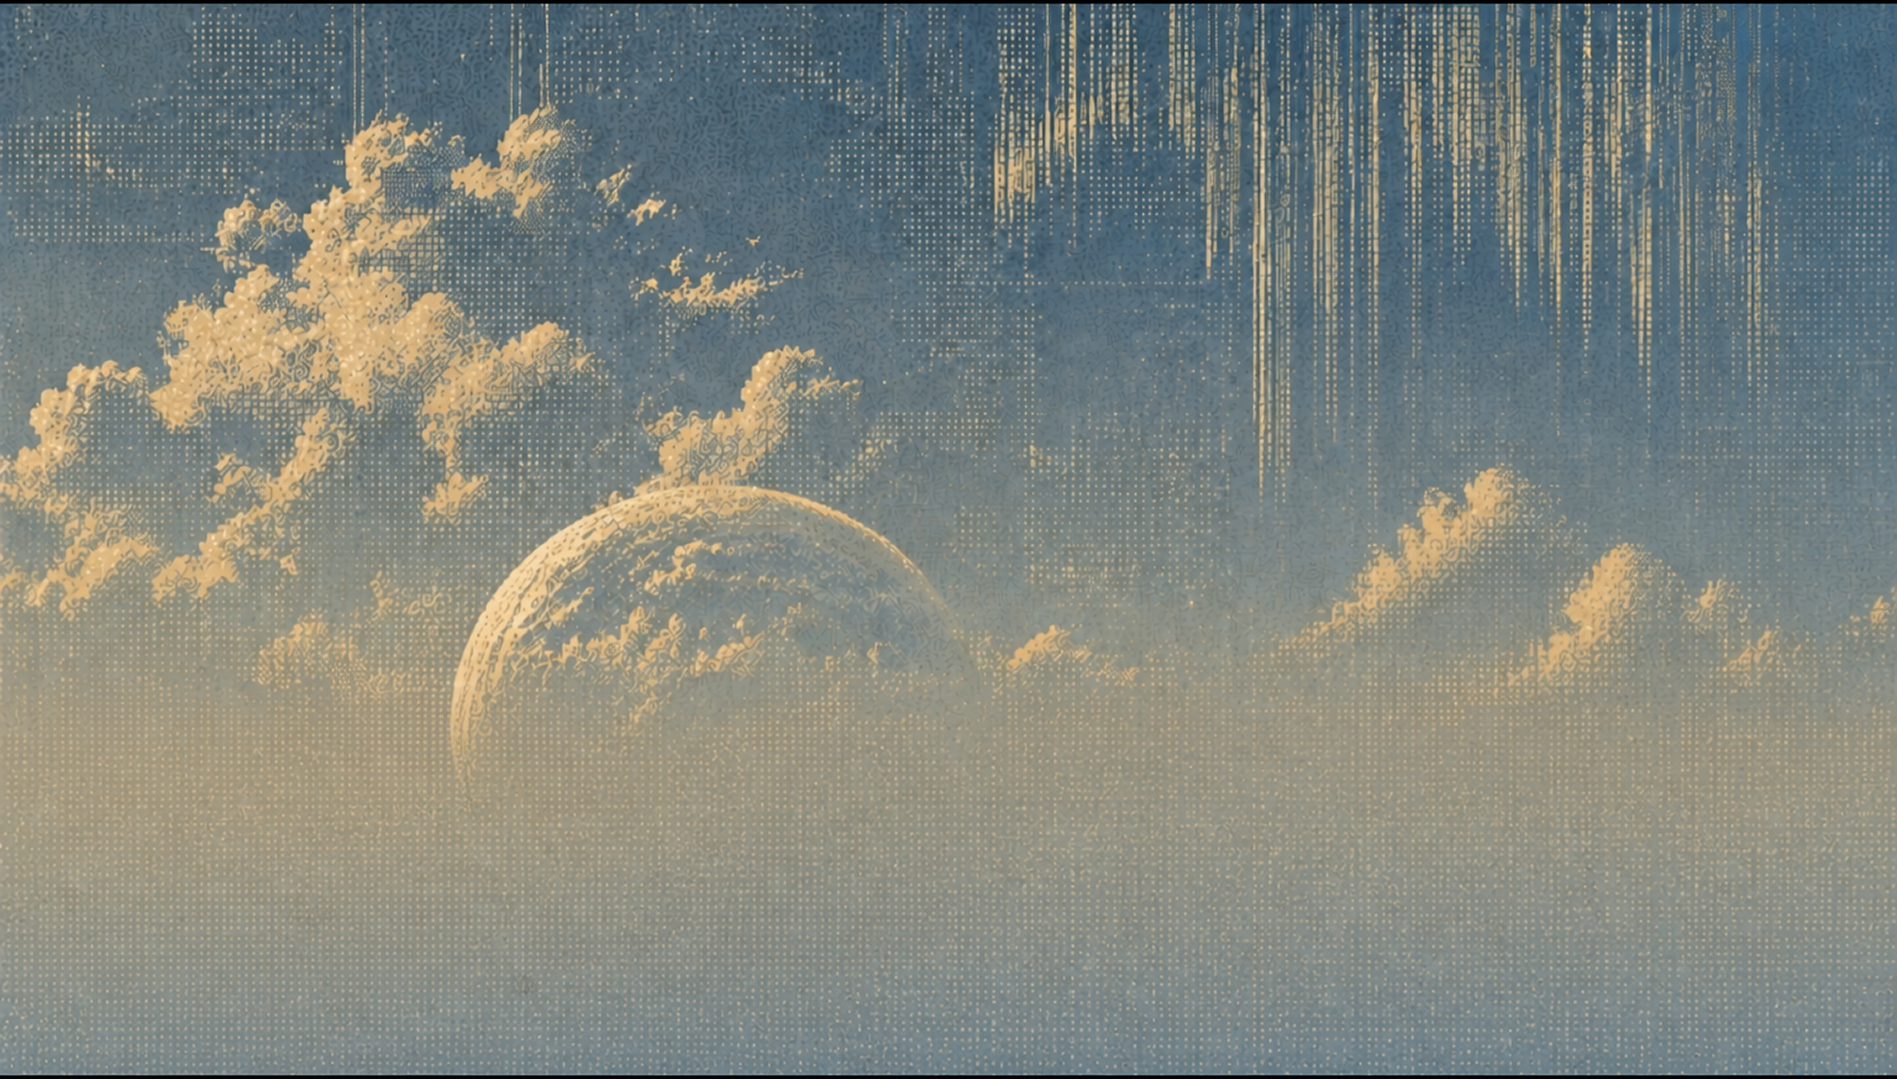
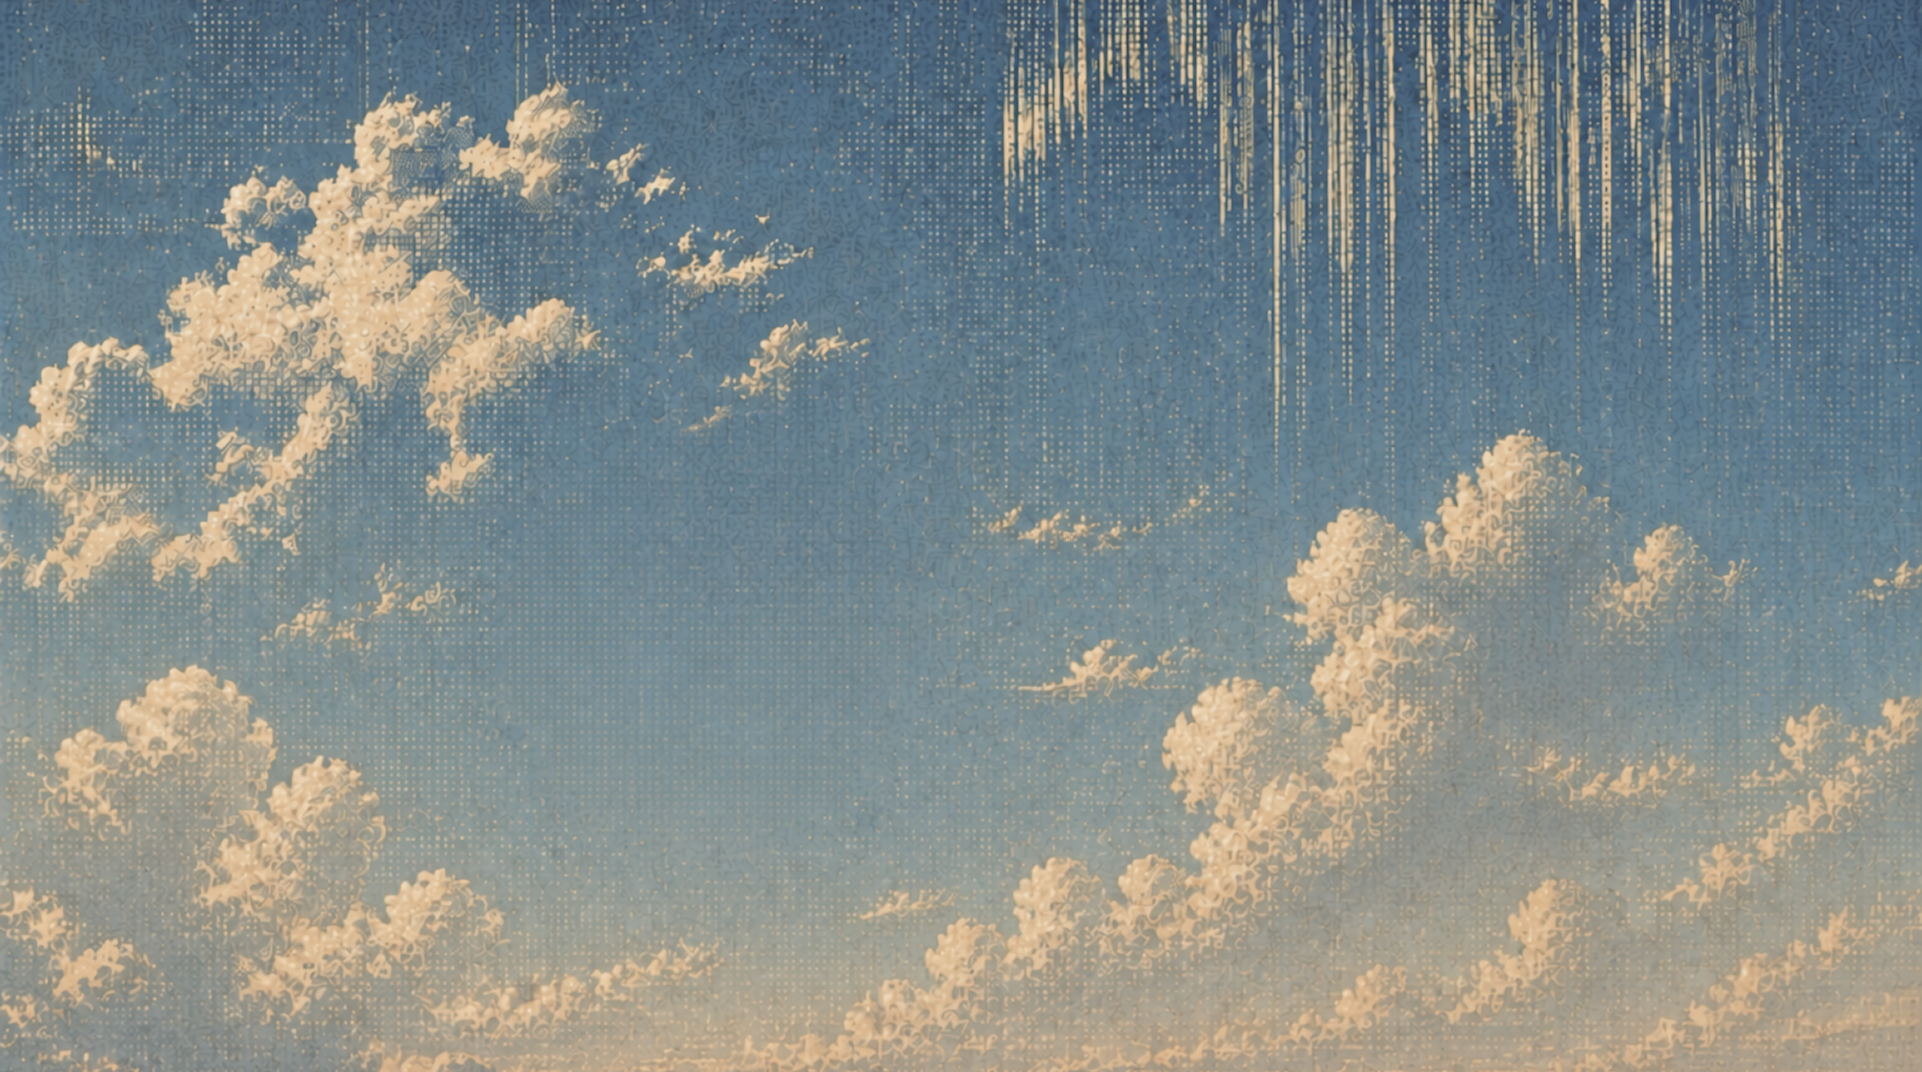
hero: rebuild S1 plates, split the moon into its own drifting layer
The re-exported 1-A came back opaque with the moon cut out into a new 1-A-1
plate, so the moon becomes a layer of its own between the sky and the city and
drifts under the pointer.

Assets
- 1-A is cover-cropped back to the shared 1897x1079 S1 canvas. Its re-export was
  1922x1072, and two aspect ratios under one object-fit: cover means the sky and
  the moon crop differently and the moon slides off the spot it was drawn on.
  It also alpha-flattens now: the plate is fully opaque.
- The moon is supersampled 1.5x for the same reason the arch is. The disc is
  430px of the plate, ~706 device px on a 1440 retina stage; 1.5x brings that
  upscale to ~1.09x. It keeps the full canvas rather than being cropped to its
  bbox so it inherits the sky's cover geometry with no CSS placement math — the
  transparent 78% costs ~16KB, and next/image ships it as a 46KB AVIF.
- The S1 poster composite picks the moon up for the reduced-motion path.

Motion
- The moon takes the sky's scale tween verbatim, because DitherDissolve now
  paints it into the S1 bitmap: sky and moon are eaten by the same Bayer grain
  instead of the moon blinking out when the canvas takes over at p=0.42.
- Pointer parallax runs at amp 0.9 on a 1.2s follow (others use 0.7s), so it
  lands about half a beat after the rest of the scene — a heavy distant body
  rather than one more parallax plane. IDLE_PARALLAX grows an optional `lag`.

Also fixes a live bug this would have made obvious: globals.css shifts the S1
[…]

diff --git a/components/hero/DitherDissolve.tsx b/components/hero/DitherDissolve.tsx
@@ -20,11 +20,17 @@ async function loadBitmap(src: string): Promise<ImageBitmap> {
   return createImageBitmap(blob);
 }
 
-function drawCover(ctx: CanvasRenderingContext2D, bmp: ImageBitmap, cw: number, ch: number, scale: number) {
+/** `ox` is the horizontal half of CSS `object-position`, as a fraction. It has to be passed
+ *  rather than assumed centred: under 767px globals.css shifts the S1 plates to `35% center`, and
+ *  a canvas that keeps drawing at 50% slides the sky ~165px sideways the frame it takes over. That
+ *  was survivable on a cloud field; with the moon on the plate it is a body teleporting. */
+const S1_MOBILE = "(max-width: 767px)"; // must track the S1 recompose breakpoint in globals.css
+
+function drawCover(ctx: CanvasRenderingContext2D, bmp: ImageBitmap, cw: number, ch: number, scale: number, ox = 0.5) {
   const s = Math.max(cw / bmp.width, ch / bmp.height) * scale;
   const dw = bmp.width * s;
   const dh = bmp.height * s;
-  ctx.drawImage(bmp, (cw - dw) / 2, (ch - dh) / 2, dw, dh);
+  ctx.drawImage(bmp, (cw - dw) * ox, (ch - dh) / 2, dw, dh);
 }
 
 /**
@@ -44,6 +50,7 @@ export function DitherDissolve({ motionRef }: { motionRef: RefObject<HeroMotion>
     if (!canvas || !ctx || !motion) return;
 
     let s1: ImageBitmap | undefined;
+    let s1Moon: ImageBitmap | undefined;
     let s2: ImageBitmap | undefined;
     let loading = false;
     let raf = 0;
@@ -54,6 +61,14 @@ export function DitherDissolve({ motionRef }: { motionRef: RefObject<HeroMotion>
 
     const mask = document.createElement("canvas");
     const temp = document.createElement("canvas");
+
+    const narrow = window.matchMedia(S1_MOBILE);
+    let originX = narrow.matches ? 0.35 : 0.5;
+    const readOrigin = () => {
+      originX = narrow.matches ? 0.35 : 0.5;
+      lastT = -1; // force a redraw at the new framing
+    };
+    narrow.addEventListener("change", readOrigin);
 
     const observer = new ResizeObserver((entries) => {
       const rect = entries[0].contentRect;
@@ -75,6 +90,12 @@ export function DitherDissolve({ motionRef }: { motionRef: RefObject<HeroMotion>
         .catch(() => {
           motion.quality.dither = false;
         });
+      // the moon loads on its own so a miss costs the moon, not the whole dissolve
+      void loadBitmap(HERO_ASSETS.s1Moon)
+        .then((m) => {
+          s1Moon = m;
+        })
+        .catch(() => {});
     };
 
     const step = () => {
@@ -135,13 +156,15 @@ export function DitherDissolve({ motionRef }: { motionRef: RefObject<HeroMotion>
       }
       const tempCtx = temp.getContext("2d")!;
       tempCtx.clearRect(0, 0, cw, ch);
-      drawCover(tempCtx, s2!, cw, ch, s2Scale);
+      drawCover(tempCtx, s2!, cw, ch, s2Scale, 0.5); // the S2 plates have no object-position override
       tempCtx.globalCompositeOperation = "destination-in";
       tempCtx.imageSmoothingEnabled = false;
       tempCtx.drawImage(mask, 0, 0, cellsX * cell, cellsY * cell);
       tempCtx.globalCompositeOperation = "source-over";
 
-      drawCover(ctx, s1!, cw, ch, 1 + (DISSOLVE.s1SkyScale - 1) * motion.factor);
+      const s1Scale = 1 + (DISSOLVE.s1SkyScale - 1) * motion.factor;
+      drawCover(ctx, s1!, cw, ch, s1Scale, originX);
+      if (s1Moon) drawCover(ctx, s1Moon, cw, ch, s1Scale, originX); // same plate canvas, so same cover math
       ctx.drawImage(temp, 0, 0);
     };
     raf = requestAnimationFrame(step);
@@ -149,7 +172,9 @@ export function DitherDissolve({ motionRef }: { motionRef: RefObject<HeroMotion>
     return () => {
       cancelAnimationFrame(raf);
       observer.disconnect();
+      narrow.removeEventListener("change", readOrigin);
       s1?.close();
+      s1Moon?.close();
       s2?.close();
     };
   }, [motionRef]);

diff --git a/components/hero/heroSequence.ts b/components/hero/heroSequence.ts
@@ -11,6 +11,7 @@ export const MOBILE_QUERY = "(max-width: 720px)";
 
 export const HERO_ASSETS = {
   s1Sky: "/hero/hero-s1-a-sky.webp",
+  s1Moon: "/hero/hero-s1-a1-moon.webp",
   s1City: "/hero/hero-s1-b-city.webp",
   s1Temple: "/hero/hero-s1-c-temple.webp",
   s1Trees: "/hero/hero-s1-d-trees.webp",
@@ -38,6 +39,7 @@ const mobile = (vw: number) => `(max-width: 767px) ${vw}vw, 100vw`;
 
 export const HERO_SIZES = {
   s1Sky: mobile(390),
+  s1Moon: mobile(390), // the moon plate shares the sky's canvas and cover geometry, so it paints identically
   s1City: mobile(236),
   s1Temple: mobile(202),
   s1Trees: mobile(179),
@@ -54,7 +56,7 @@ export const DISSOLVE = {
   band: [0.42, 0.585],
   sweep: [0.45, 0.58],
   cellPx: 7, // aligned to device pixels at draw time (caution §8)
-  s1SkyScale: 1.18, // 1-A held at the end of its push
+  s1SkyScale: 1.18, // 1-A held at the end of its push — the moon plate is drawn at the same scale
   s2SkyScale: [1.12, 1.06], // must mirror the DOM tween on [data-hs="s2-a"]
   s2SkySettle: [0.45, 0.6],
 } as const;
@@ -102,8 +104,14 @@ export const heroScript: HeroStep[] = [
   { target: '[data-hs="s1-b"]', at: [0.15, 0.4], from: { scale: 1, yPercent: 0 }, to: { scale: 1.12, yPercent: 10 }, ease: "power2.in" },
   { target: '[data-hs="s1-b"]', at: [0.38, 0.45], from: { autoAlpha: 1 }, to: { autoAlpha: 0 }, ease: "none" },
   { target: '[data-hs="s1-a"]', at: [0.15, 0.4], from: { scale: 1.08 }, to: { scale: 1.18 }, ease: "none" },
+  // The moon rides the sky. DitherDissolve paints it into the S1 bitmap so the Bayer grain eats
+  // both together, which means this scale must stay identical to [data-hs="s1-a"] above — any
+  // divergence shows as a jump the frame the canvas takes over at p=0.42. Depth separation for
+  // the moon comes from IDLE_PARALLAX, not from the scroll.
+  { target: '[data-hs="s1-a1"]', at: [0.15, 0.4], from: { scale: 1.08 }, to: { scale: 1.18 }, ease: "none" },
   // release S1 sky from the render tree once the dissolve has fully handed over (§9 memory)
   { target: '[data-hs="s1-a"]', at: [0.585, 0.6], from: { autoAlpha: 1 }, to: { autoAlpha: 0 }, ease: "none" },
+  { target: '[data-hs="s1-a1"]', at: [0.585, 0.6], from: { autoAlpha: 1 }, to: { autoAlpha: 0 }, ease: "none" },
 
   // ——— Dissolve band (0.40–0.60): DOM crossfade is the baseline; the Bayer
   // canvas renders the true dither above it whenever it is available.
@@ -127,9 +135,14 @@ export const heroScript: HeroStep[] = [
   { target: ".hs-handoff", at: [0.9, 1], from: { autoAlpha: 0 }, to: { autoAlpha: 1 }, ease: "none" },
 ];
 
-/** Mouse parallax amplitudes during the idle stage, in percent (§4 row 1). */
-export const IDLE_PARALLAX: ReadonlyArray<{ target: string; amp: number }> = [
+/** Mouse parallax amplitudes during the idle stage, in percent (§4 row 1).
+ *  `lag` overrides the shared 0.7s follow. The moon is the only layer that takes it: strict depth
+ *  would put it behind the sky and it would read as wallpaper, while giving it a near-field
+ *  amplitude would read as a sticker. A middling amplitude on a long follow instead lands it half
+ *  a beat after everything else — a heavy body drifting, which is what it is. */
+export const IDLE_PARALLAX: ReadonlyArray<{ target: string; amp: number; lag?: number }> = [
   { target: "s1-a", amp: 0.5 },
+  { target: "s1-a1", amp: 0.9, lag: 1.2 },
   { target: "s1-b", amp: 1 },
   { target: "s1-c", amp: 2 },
   { target: "s1-d", amp: 3 },

diff --git a/app/globals.css b/app/globals.css
@@ -149,16 +149,19 @@ html.lenis, html.lenis body { height: auto; }
 [data-hs="s1-c"] { transform-origin: 25% 60%; }
 /* stage z-order (plan §3), explicit so a stray filter/opacity can't reflatten it */
 [data-hs="s1-a"] { z-index: 1; }
-[data-hs="s2-a"] { z-index: 2; }
-.hs-dissolve { z-index: 3; }
-.hs-rain-back { z-index: 4; }
-[data-hs="s2-b"] { z-index: 5; }
-[data-hs="s1-b"] { z-index: 6; }
-[data-hs="s1-c"] { z-index: 7; }
-.hs-rain-front { z-index: 8; }
-[data-hs="s1-d"] { z-index: 9; }
-[data-hs="s2-c"] { z-index: 10; }
-.hs-vignette { z-index: 11; }
+/* the moon sits under s2-a on purpose: when the dither canvas is unavailable the plain DOM
+   crossfade is the fallback, and a moon above the incoming sky would hang over the wrong scene */
+[data-hs="s1-a1"] { z-index: 2; }
+[data-hs="s2-a"] { z-index: 3; }
+.hs-dissolve { z-index: 4; }
+.hs-rain-back { z-index: 5; }
+[data-hs="s2-b"] { z-index: 6; }
+[data-hs="s1-b"] { z-index: 7; }
+[data-hs="s1-c"] { z-index: 8; }
+.hs-rain-front { z-index: 9; }
+[data-hs="s1-d"] { z-index: 10; }
+[data-hs="s2-c"] { z-index: 11; }
+.hs-vignette { z-index: 12; }
 .hs-mission { z-index: 13; }
 .hs-handoff { z-index: 14; }
 .hs-nav-blur { z-index: 15; }
@@ -734,7 +737,7 @@ html.lenis, html.lenis body { height: auto; }
   .hero-stage { min-height: 42rem; }
   /* S1 mobile recompose per Figma node 506:1891 (394×852 frame, fractions thereof):
      the sky shows the moon window; city/temple/trees are free-placed alpha layers */
-  [data-hs="s1-a"] img { object-position: 35% center; }
+  [data-hs="s1-a"] img, [data-hs="s1-a1"] img { object-position: 35% center; }
   [data-hsp="s1-b"] { inset: auto; left: -82.2vw; top: 40.5%; width: 235.5vw; height: auto; aspect-ratio: 1897 / 1079; transform: none; }
   [data-hsp="s1-c"] { inset: auto; left: -74.4vw; top: 49.6%; width: 201.5vw; height: auto; aspect-ratio: 1897 / 1079; transform: none; }
   [data-hsp="s1-d"] { inset: auto; left: -74.4vw; top: 55.5%; width: 178.4vw; height: auto; aspect-ratio: 1897 / 1079; transform: none; }

diff --git a/components/hero/HeroScroll.tsx b/components/hero/HeroScroll.tsx
@@ -195,13 +195,13 @@ export function HeroScroll() {
 
         // ——— idle-stage mouse parallax, fading out by p=0.15 (§4 row 1)
         if (window.matchMedia("(hover: hover) and (pointer: fine)").matches) {
-          const movers = IDLE_PARALLAX.map(({ target, amp: amplitude }) => {
+          const movers = IDLE_PARALLAX.map(({ target, amp: amplitude, lag = 0.7 }) => {
             const el = stage.querySelector<HTMLElement>(`[data-hsp="${target}"]`);
             return el
               ? {
                   amplitude,
-                  x: gsap.quickTo(el, "xPercent", { duration: 0.7, ease: "power2.out" }),
-                  y: gsap.quickTo(el, "yPercent", { duration: 0.7, ease: "power2.out" }),
+                  x: gsap.quickTo(el, "xPercent", { duration: lag, ease: "power2.out" }),
+                  y: gsap.quickTo(el, "yPercent", { duration: lag, ease: "power2.out" }),
                 }
               : null;
           });
@@ -276,6 +276,9 @@ export function HeroScroll() {
       <div className="hs-scene" role="img" aria-label={SCENE_LABEL}>
         <div className="hs-layer hs-move" data-hs="s1-a">
           <div className="hs-inner" data-hsp="s1-a"><Image src={HERO_ASSETS.s1Sky} alt="" fill preload sizes={HERO_SIZES.s1Sky} quality={90} /></div>
+        </div>
+        <div className="hs-layer hs-move" data-hs="s1-a1">
+          <div className="hs-inner" data-hsp="s1-a1"><Image src={HERO_ASSETS.s1Moon} alt="" fill loading="eager" sizes={HERO_SIZES.s1Moon} quality={90} /></div>
         </div>
         <div className="hs-layer hs-s2 hs-move" data-hs="s2-a">
           <div className="hs-inner"><Image src={HERO_ASSETS.s2Sky} alt="" fill sizes={HERO_SIZES.s2Sky} quality={90} /></div>
